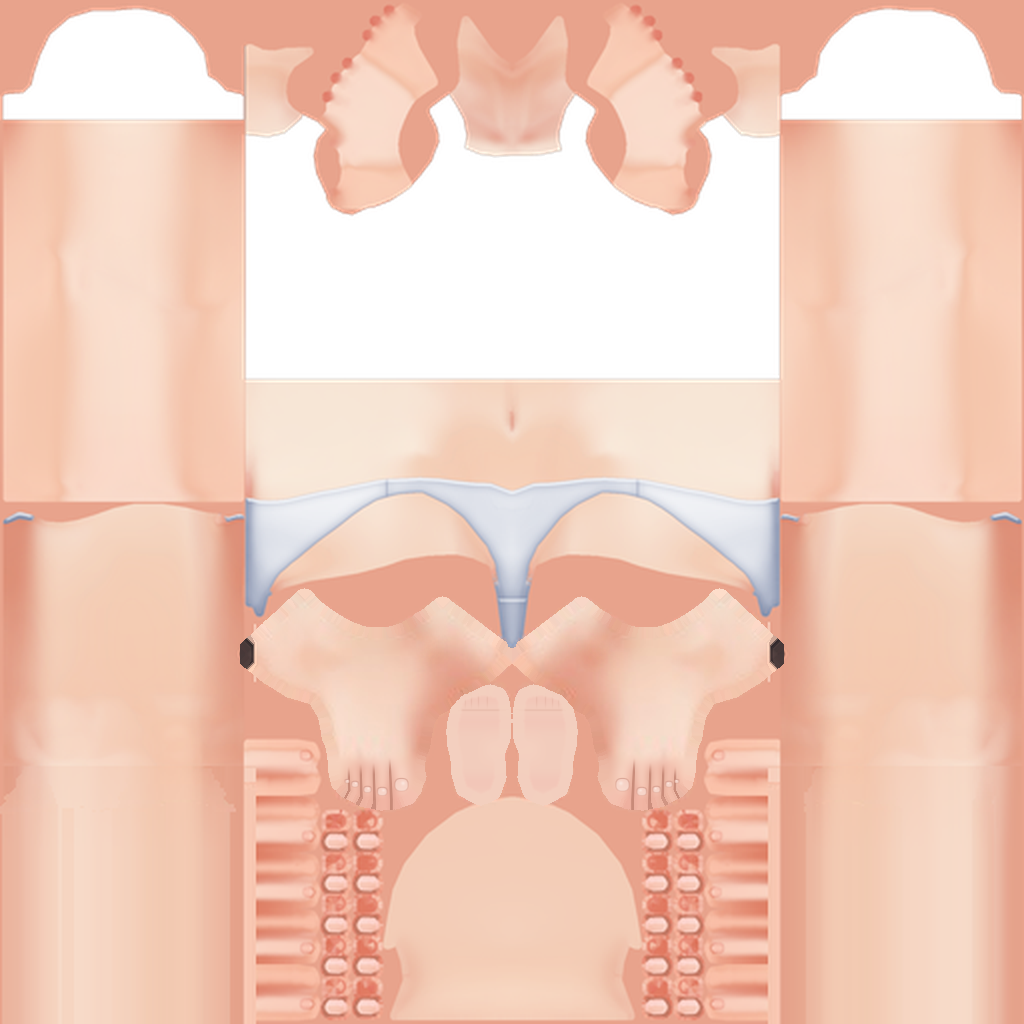
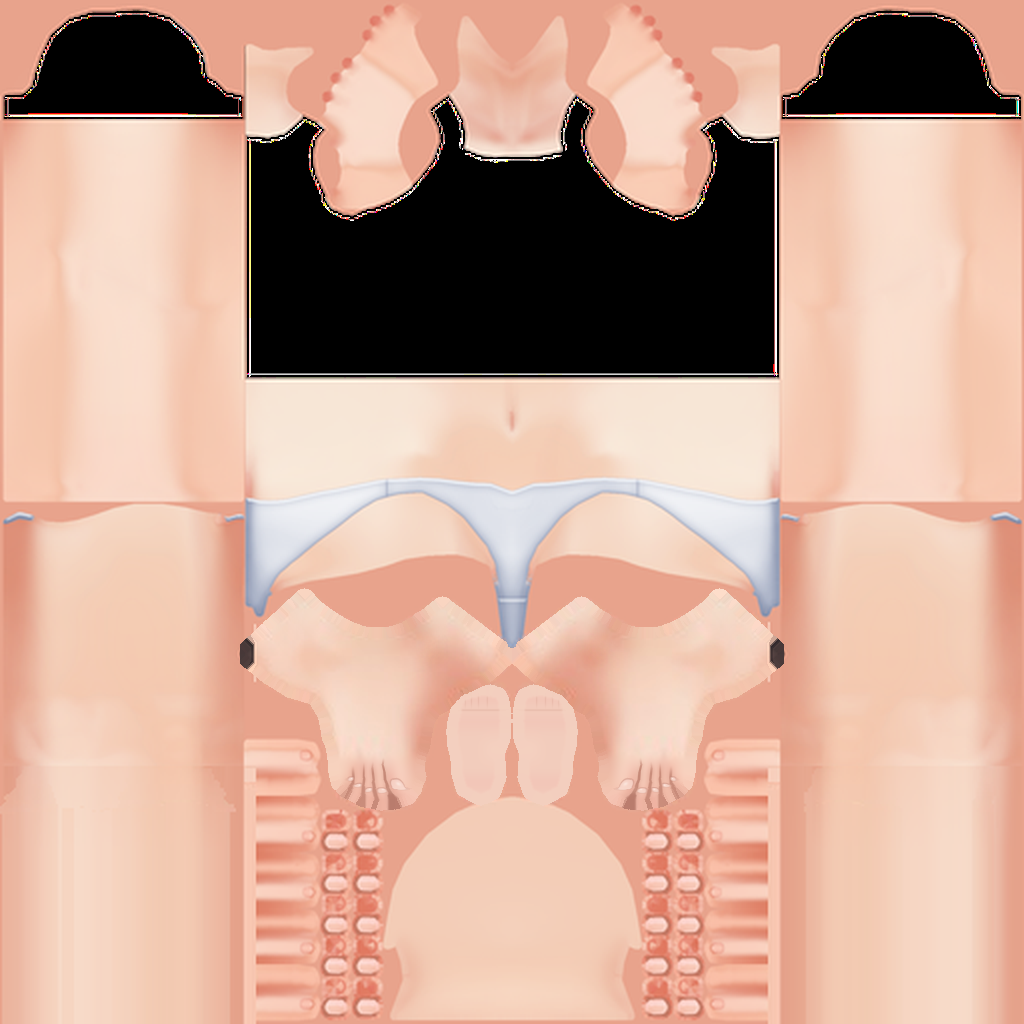
Wardrobe: bare-foot toes laid out straight from above — big toe along the foot with a small gap to the second toe, lesser toes graded, nails square

Changed region(s): [[0.0, 0.0, 1.0, 0.375], [0.5938, 0.75, 0.6562, 0.7812], [0.3438, 0.75, 0.4062, 0.7812]]

diff --git a/app/public/looks/README.md b/app/public/looks/README.md
@@ -7,9 +7,13 @@ repainted so bare feet read as natural anime feet:
 
 - soles: the dark brown "shoe sole" paint VRoid leaves under shoes is
   replaced with soft, slightly rosier skin, with faint toe, ball and heel pads;
-- toes: crisp toe separations with soft rounding, small pale nails and a
-  light rosy tint at the toe tips (aligned to VRoid's own toe layout and
-  normal map, so the shading still matches);
+- toes: laid out in the foot's own 3D space (not along the UV island), so
+  from above the big toe runs straight along the foot with a small shaded
+  gap to the second toe that opens slightly at the tips; the other toes are
+  graded shorter and angle gently inward as on a real foot, with crisp soft
+  separations, small pale nails (the big-toe nail largest and square to the
+  foot) and a light rosy tint at the toe tips. The toe-web rows still follow
+  VRoid's own layout so the baked normal map shading lines up;
 - ankle: the foot colour is blended into the leg colour at the seam where
   the foot and leg meshes meet, so no line shows at the ankle;
 - heel: a faint rosy tint.
